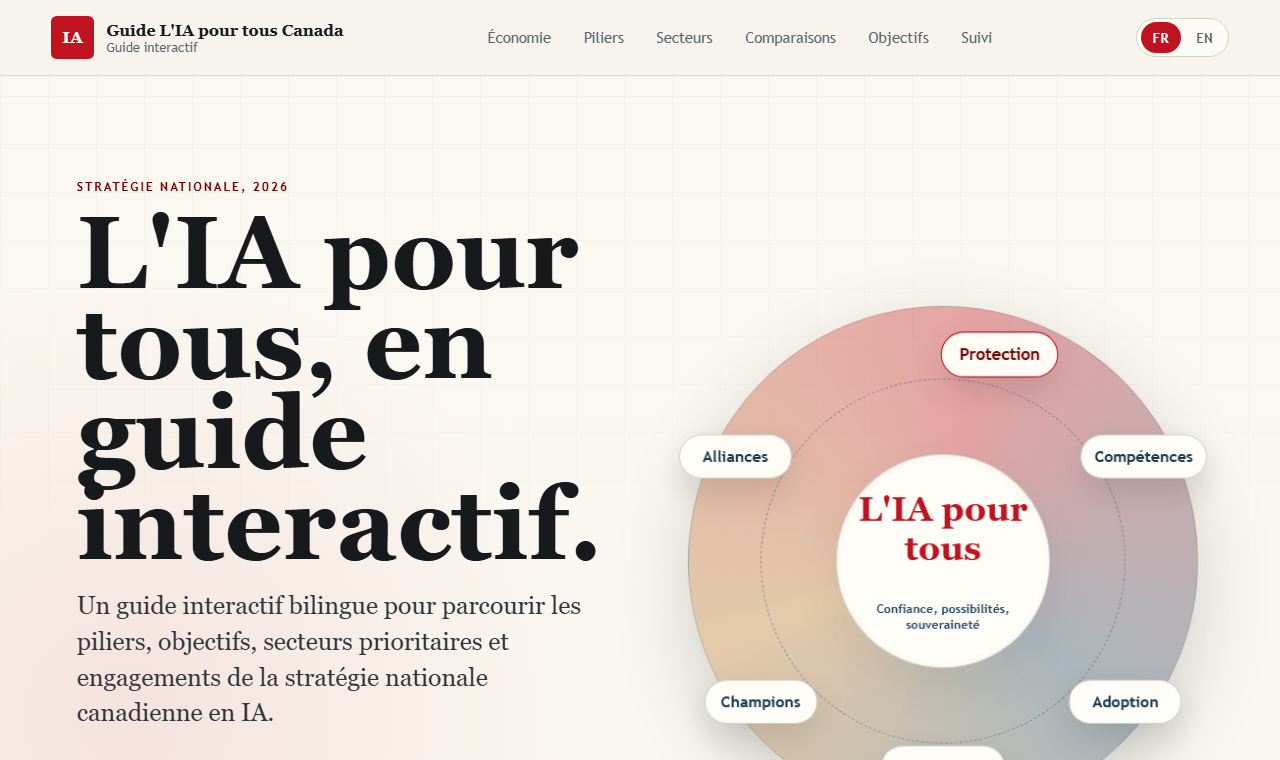
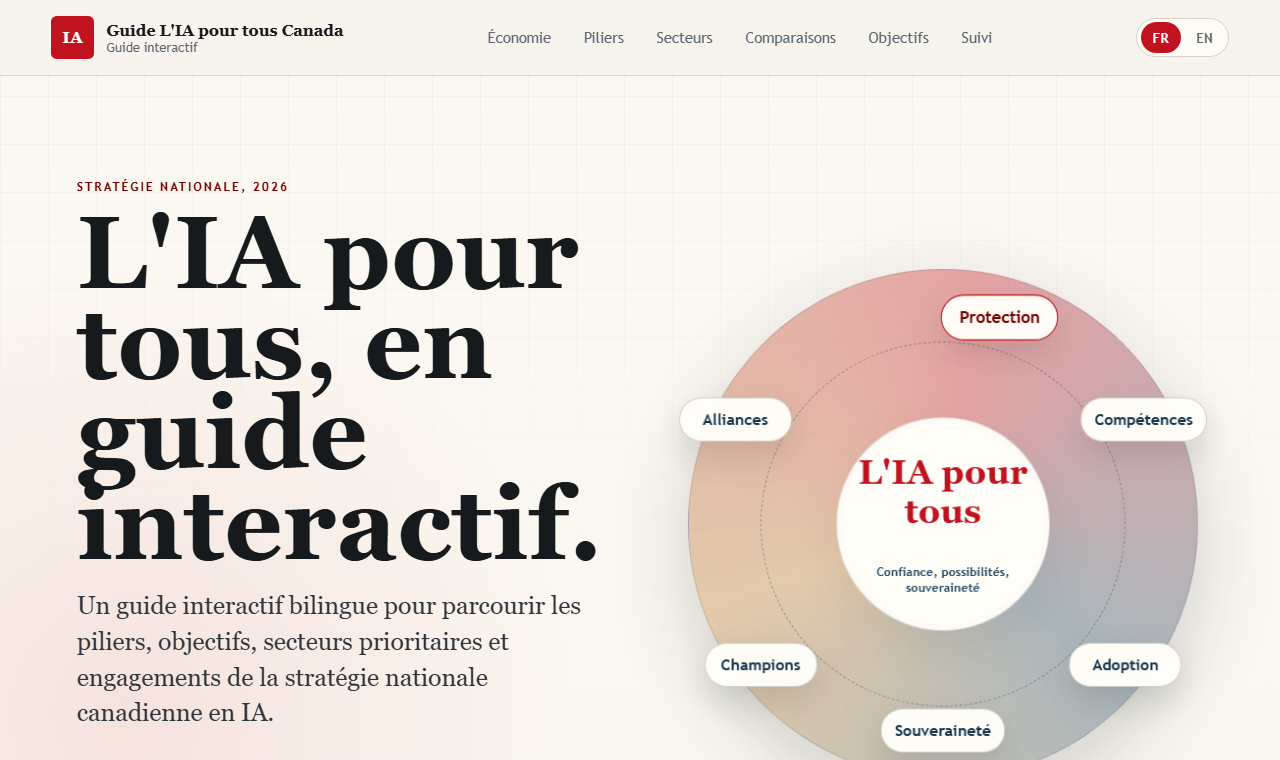
fix: retire le bouton hero Explorer la strategie
- Bouton primaire retire (non pertinent) : la navigation du haut couvre deja l'acces aux sections
- Bloc hero-actions supprime (devenu vide), libelles heroPrimary FR et EN nettoyes

diff --git a/index.html b/index.html
@@ -202,9 +202,6 @@
           <p class="hero-lead" data-i18n="heroLead">
             Un guide interactif bilingue pour parcourir les piliers, objectifs, secteurs prioritaires et engagements de la stratégie nationale canadienne en IA.
           </p>
-          <div class="hero-actions">
-            <a class="button primary" href="#piliers" data-i18n="heroPrimary">Explorer la stratégie</a>
-          </div>
           <p class="disclaimer" data-i18n="disclaimer">
             Ce site n'est pas produit par le gouvernement du Canada. Les chiffres et comparaisons du tableau de bord proviennent de la stratégie nationale L'IA pour tous.
           </p>

diff --git a/app.js b/app.js
@@ -29,7 +29,6 @@ const content = {
     heroTitle: "L'IA pour tous, en guide interactif.",
     heroLead:
       "Un guide interactif bilingue pour parcourir les piliers, objectifs, secteurs prioritaires et engagements de la stratégie nationale canadienne en IA.",
-    heroPrimary: "Explorer la stratégie",
     disclaimer:
       "Ce site n'est pas produit par le gouvernement du Canada. Les chiffres et comparaisons du tableau de bord proviennent de la stratégie nationale L'IA pour tous.",
     wheelAria: "Schéma des axes de la stratégie",
@@ -275,7 +274,6 @@ const content = {
     heroTitle: "AI for All, as an interactive guide.",
     heroLead:
       "A bilingual interactive guide to the pillars, targets, priority sectors and commitments in Canada's national AI strategy.",
-    heroPrimary: "Explore the strategy",
     disclaimer:
       "This site is not produced by the Government of Canada. The figures and comparisons in the dashboard come from the national strategy AI for All.",
     wheelAria: "Diagram of the strategy axes",